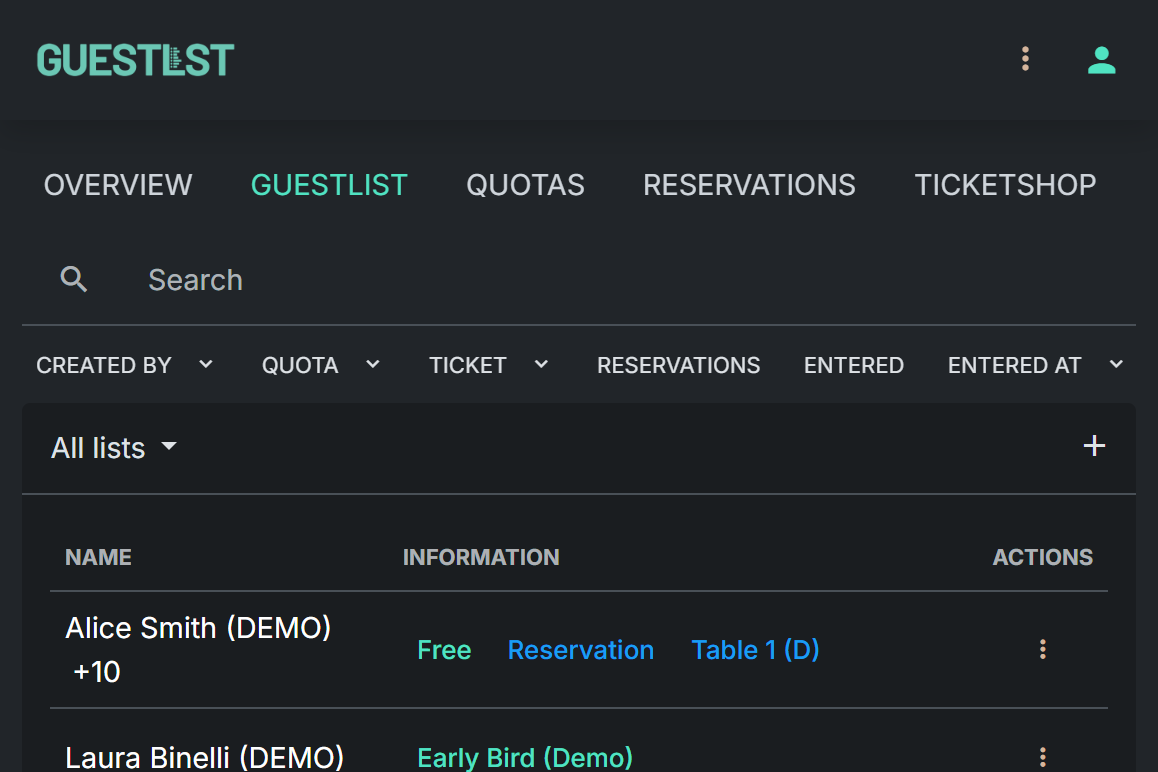
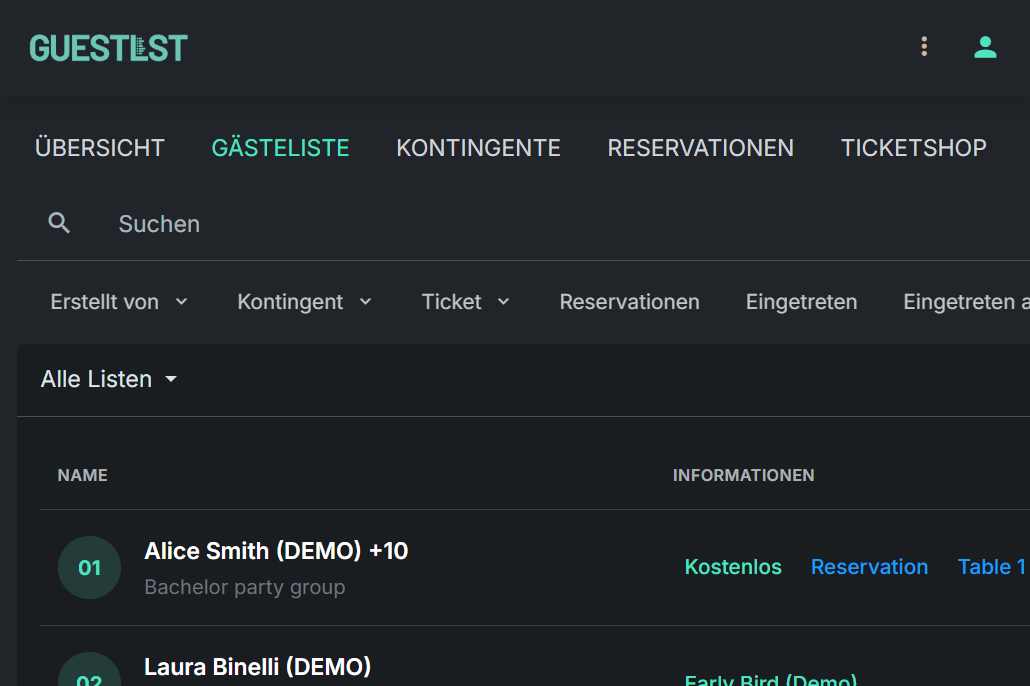
1.8.0

diff --git a/index.html b/index.html
@@ -117,7 +117,7 @@
             </ul>
           </div>
           <div class="hero-visual reveal">
-            <img class="app-screenshot" src="/assets/images/demo-event-overview.png" width="1158" height="772" alt="Guestlst demo event overview with guest, ticket and reservation totals" />
+            <img class="app-screenshot" src="/assets/images/demo-event-overview.png" width="1030" height="686" alt="Guestlst event workspace showing the Golden Hour Sessions demo event details and navigation" />
           </div>
         </div>
       </section>
@@ -153,7 +153,7 @@
             <p>Bring event details, guest lists, quotas, reservations and ticket-shop setup together in one event workspace.</p>
             <a class="button button--outline" href="#modules">Explore platform <span aria-hidden="true">›</span></a>
           </div>
-          <img class="platform-screenshot reveal" src="/assets/images/demo-event-quotas.png" width="1158" height="772" alt="Guestlst demo event quotas showing sample lists, entry limits and pricing" />
+          <img class="platform-screenshot reveal" src="/assets/images/demo-event-quotas.png" width="1030" height="686" alt="Guestlst quota screen with demo event allocations, entry limits and pricing" />
         </div>
       </section>
 
@@ -223,7 +223,7 @@
             </ul>
             <a class="button button--mint" href="https://pwa.guestlst.com/auth/register">Explore platform <span aria-hidden="true">↗</span></a>
           </div>
-          <img class="dashboard-screenshot reveal" src="/assets/images/demo-event-guest-list.png" width="1158" height="772" alt="Guestlst demo event guest list with sample guests, quota details and table reservations" />
+          <img class="dashboard-screenshot reveal" src="/assets/images/demo-event-guest-list.png" width="1030" height="686" alt="Guestlst guest list with demo guests, reservation details and table assignments" />
           </div>
         </div>
       </section>
